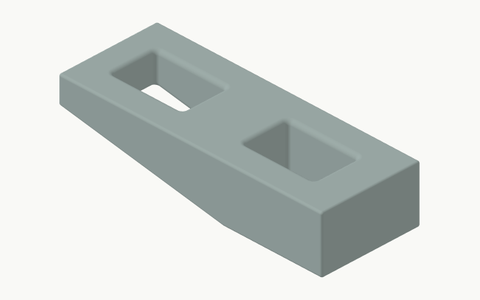
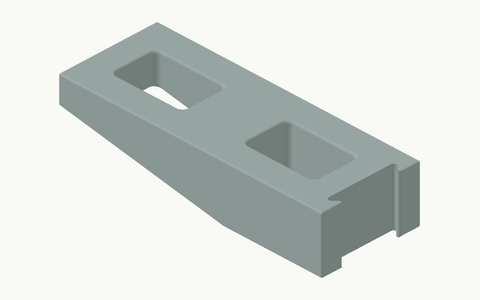
Refresh non-tangent rail-end provenance
Bind the illustrated inventory to the final cross-kernel rail-end construction.\n\nCo-authored-by: Copilot App <223556219+Copilot@users.noreply.github.com>

diff --git a/tools/render_docs.py b/tools/render_docs.py
@@ -24,7 +24,7 @@ from cargo_grid.catalogue import BRACKET_DISPLAY_NAMES, accessory_variants
 ROOT = Path(__file__).resolve().parents[1]
 BUILD = BuildVolume(350, 320, 325)
 WORKBENCH_REVISION = "c3f63ef8d8604d3ec7eeba40a229047887c03d86"
-GEOMETRY_REVISION = "0787bac067942b04a2df49cdd01c556da69f1ba2"
+GEOMETRY_REVISION = "839b1b83ef628a40fe69842d55b43246215fbd6b"
 GEOMETRY_FILES = (
     "parameters.py",
     "interfaces.py",

diff --git a/docs/attachments.md b/docs/attachments.md
@@ -145,6 +145,6 @@ PYTHONPATH=src <workbench-python> tools/render_docs.py --workbench <workbench-ch
 
 Use the workbench's Python interpreter with Pillow already available; paths are supplied locally, not committed. In PowerShell, set `$env:PYTHONPATH='src'` before invoking that interpreter. The script checks geometry modules against the recorded commit, invokes STEP/inspection/render tools, then creates 6 overview PNGs and 56 family-scaled thumbnails. `--compose-only` reuses verified local STEP-derived renders; `--check` verifies the committed files and their one-to-one inventory mapping without Pillow. Intermediate STEP files and raw renders remain ignored. Layout is deterministic; raster bytes can depend on graphics/Pillow versions.
 
-Generator source revision: <code>0787bac0<wbr>67942b04<wbr>a2df49cd<wbr>d01c556d<wbr>a69f1ba2</code>. Generator tree: <code>1fe1f513<wbr>ddd6ead4<wbr>c7f4ff13<wbr>7dd177ed<wbr>2d7792c9</code>. Workbench revision: <code>c3f63ef8<wbr>d8604d3e<wbr>c7eeba40<wbr>a2290478<wbr>87c03d86</code>.
+Generator source revision: <code>839b1b83<wbr>ef628a40<wbr>fe69842d<wbr>55b43246<wbr>215fbd6b</code>. Generator tree: <code>a52f8ab8<wbr>7c08861e<wbr>2233b262<wbr>cef38f19<wbr>6ea0a01f</code>. Workbench revision: <code>c3f63ef8<wbr>d8604d3e<wbr>c7eeba40<wbr>a2290478<wbr>87c03d86</code>.
 
 A successful render is not evidence of printability, physical fit, support release or third-party design rights.
